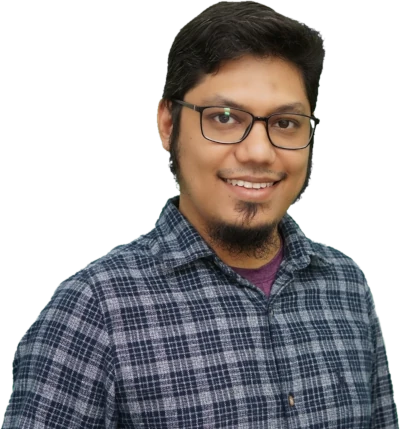
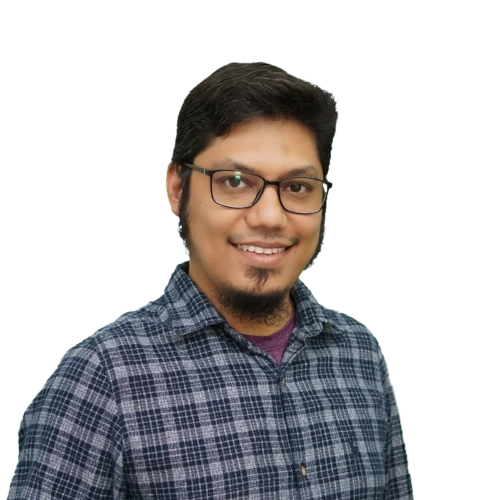
Change the profile photo and A.K.M. to AKM

diff --git a/src/config.ts b/src/config.ts
@@ -2,9 +2,9 @@ import type { Site, SocialObjects } from "./types";
 
 export const SITE: Site = {
   website: "https://ashrafuzzaman.github.io/",
-  author: "A.K.M. Ashrafuzzaman",
+  author: "AKM Ashrafuzzaman",
   desc: "Technical blog for developers",
-  title: "Personal site of A.K.M. Ashrafuzzaman",
+  title: "Personal site of AKM Ashrafuzzaman",
   ogImage: "/assets/profile-pic.webp",
   lightAndDarkMode: true,
   postPerPage: 3,

diff --git a/README.md b/README.md
@@ -1,6 +1,6 @@
 # My site and blog
 
-Hi I am A.K.M. Ashrafuzzaman this is a blog template with a resume and profile page. Feel free to clone this project. I wanted to keep all the data in yaml files so that anyone can change the data to repurpose this site. I used the following technologies,
+Hi I am AKM Ashrafuzzaman this is a blog template with a resume and profile page. Feel free to clone this project. I wanted to keep all the data in yaml files so that anyone can change the data to repurpose this site. I used the following technologies,
 ![Typescript](https://img.shields.io/badge/TypeScript-007ACC?style=for-the-badge&logo=typescript&logoColor=white)
 ![GitHub](https://img.shields.io/github/license/satnaing/astro-paper?color=%232F3741&style=for-the-badge)
 [![Commitizen friendly](https://img.shields.io/badge/commitizen-friendly-brightgreen.svg?style=for-the-badge)](http://commitizen.github.io/cz-cli/)